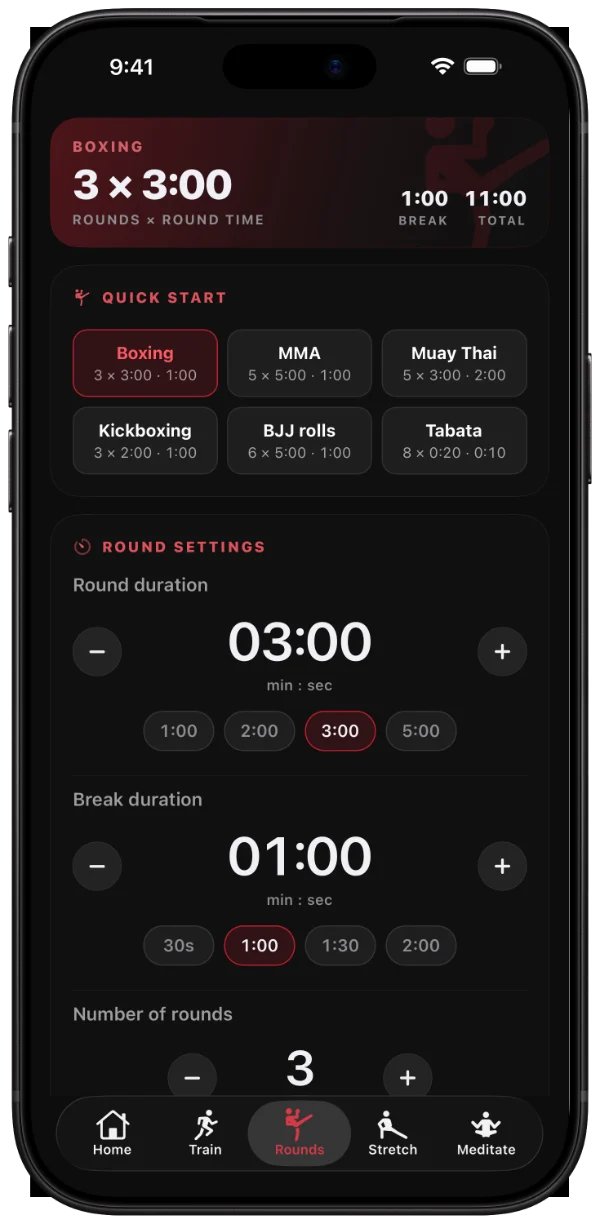
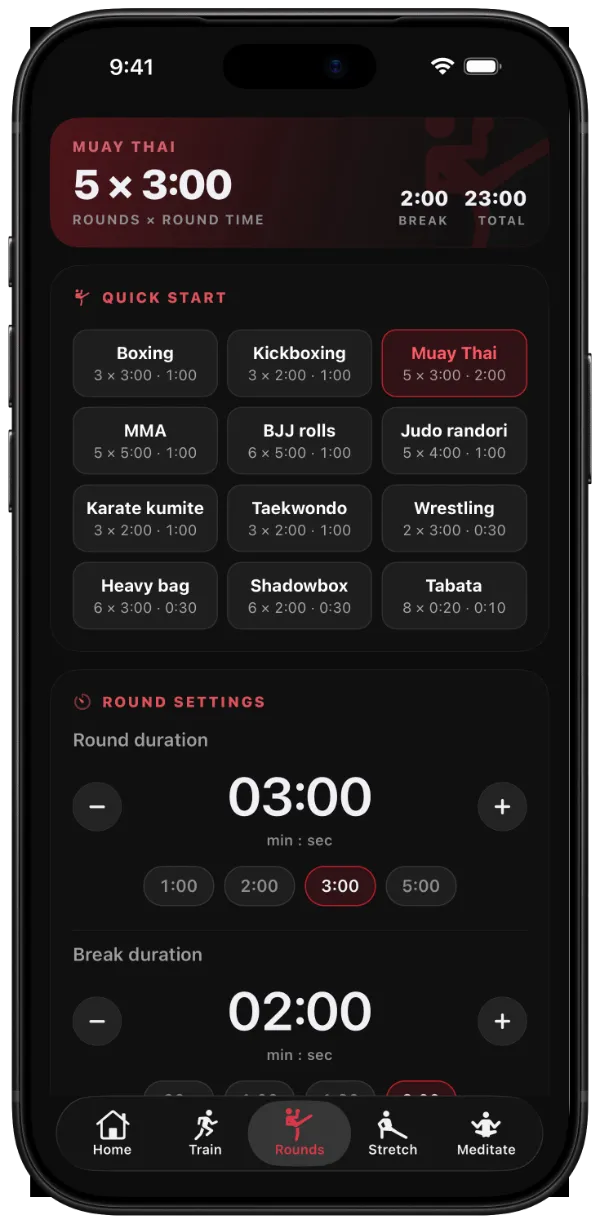
Quick start for every martial art: the 1.2.1 screen with twelve formats

diff --git a/index.html b/index.html
@@ -271,7 +271,7 @@ footer a:hover { color: var(--text); }
         <article class="timer reveal" style="--tint: var(--red)">
           <div class="tag">Rounds</div>
           <h3>Fight rounds</h3>
-          <p>Round, rest and number of rounds, or a fight format in one tap. A 10-second warning turns the digits amber.</p>
+          <p>Round, rest and number of rounds, or any of twelve martial arts formats in one tap. A 10-second warning turns the digits amber.</p>
           <img src="media/iphone-round.webp" alt="Rounds timer in the last ten seconds of a round" loading="lazy" width="600" height="1224">
         </article>
         <article class="timer reveal" style="--tint: var(--blue)">
@@ -304,9 +304,9 @@ footer a:hover { color: var(--text); }
       <div class="feature reveal" style="--tint: var(--red)">
         <div class="copy">
           <div class="kicker">Quick start</div>
-          <h3>Boxing to BJJ in one tap.</h3>
-          <p class="lede">The common formats are ready to go: rounds, rest and the warning, all set for you. Adjust anything, then save it as your own.</p>
-          <ul><li>Boxing, Kickboxing, Muay Thai, MMA</li><li>BJJ rolls and Tabata</li><li>5-second countdown before the first bell</li></ul>
+          <h3>Every martial art in one tap.</h3>
+          <p class="lede">Twelve formats are ready to go, with the rounds, rest and warning set for you. Adjust anything, then save it as your own.</p>
+          <ul><li>Boxing, kickboxing, Muay Thai, MMA</li><li>BJJ rolls, judo randori, karate kumite, taekwondo, wrestling</li><li>Heavy bag, shadowboxing and Tabata</li></ul>
         </div>
         <img src="media/iphone-quickstart.webp" alt="Quick start formats on the Rounds screen" loading="lazy" width="600" height="1224">
       </div>
